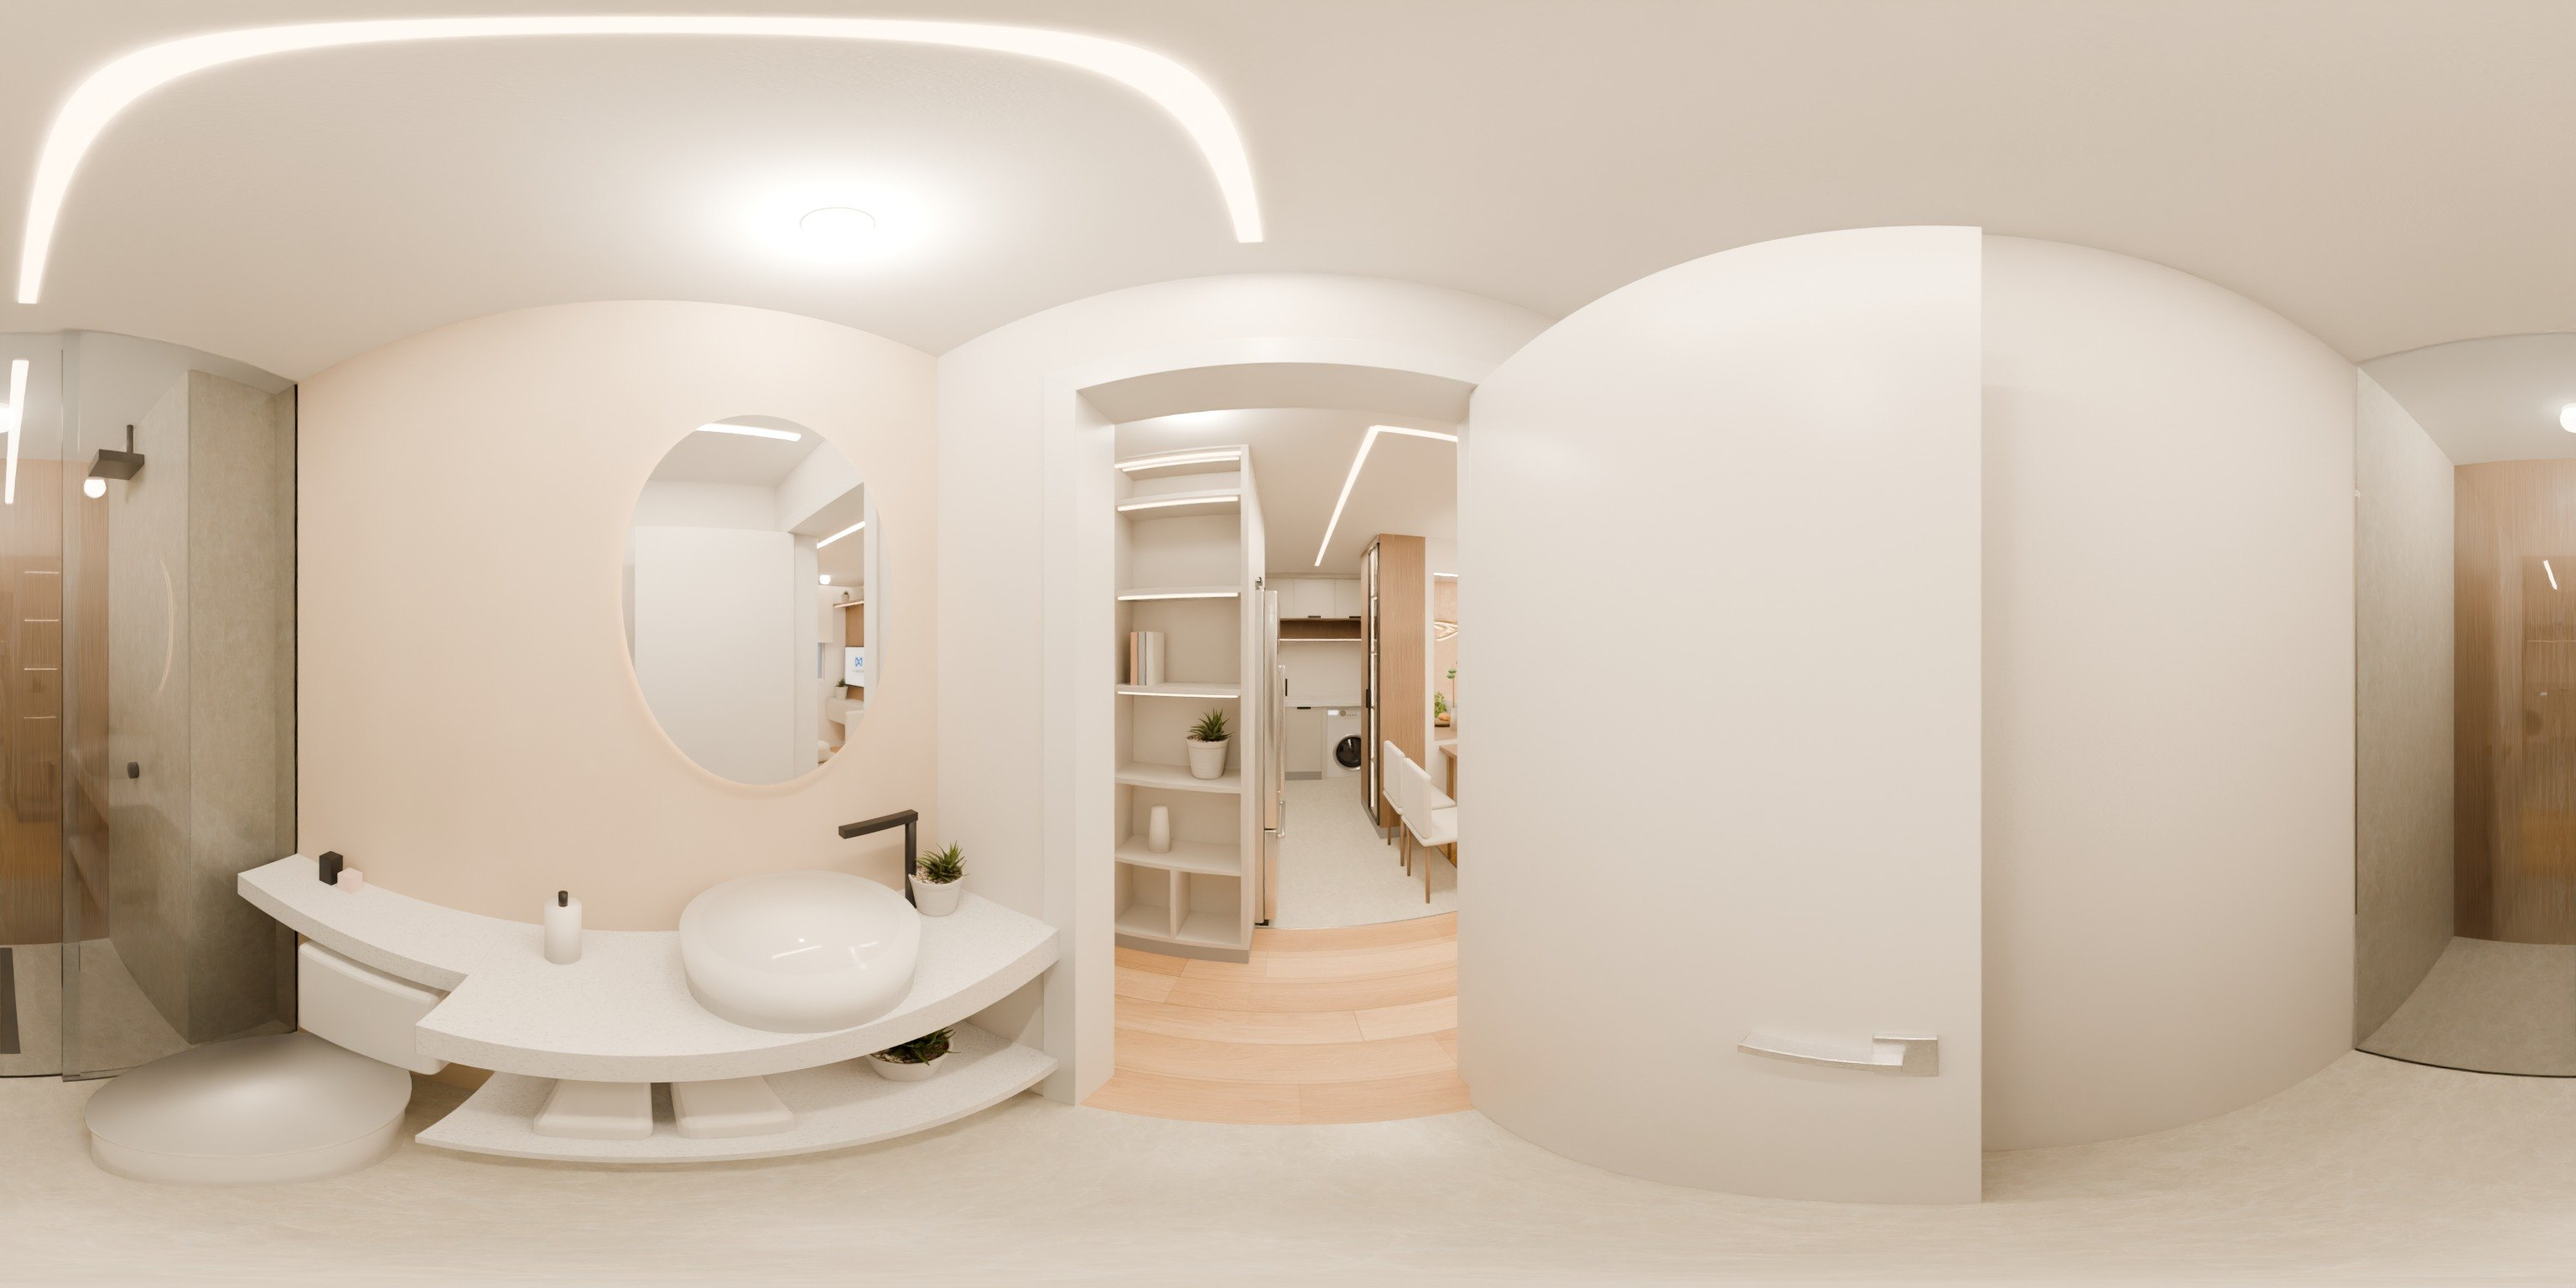
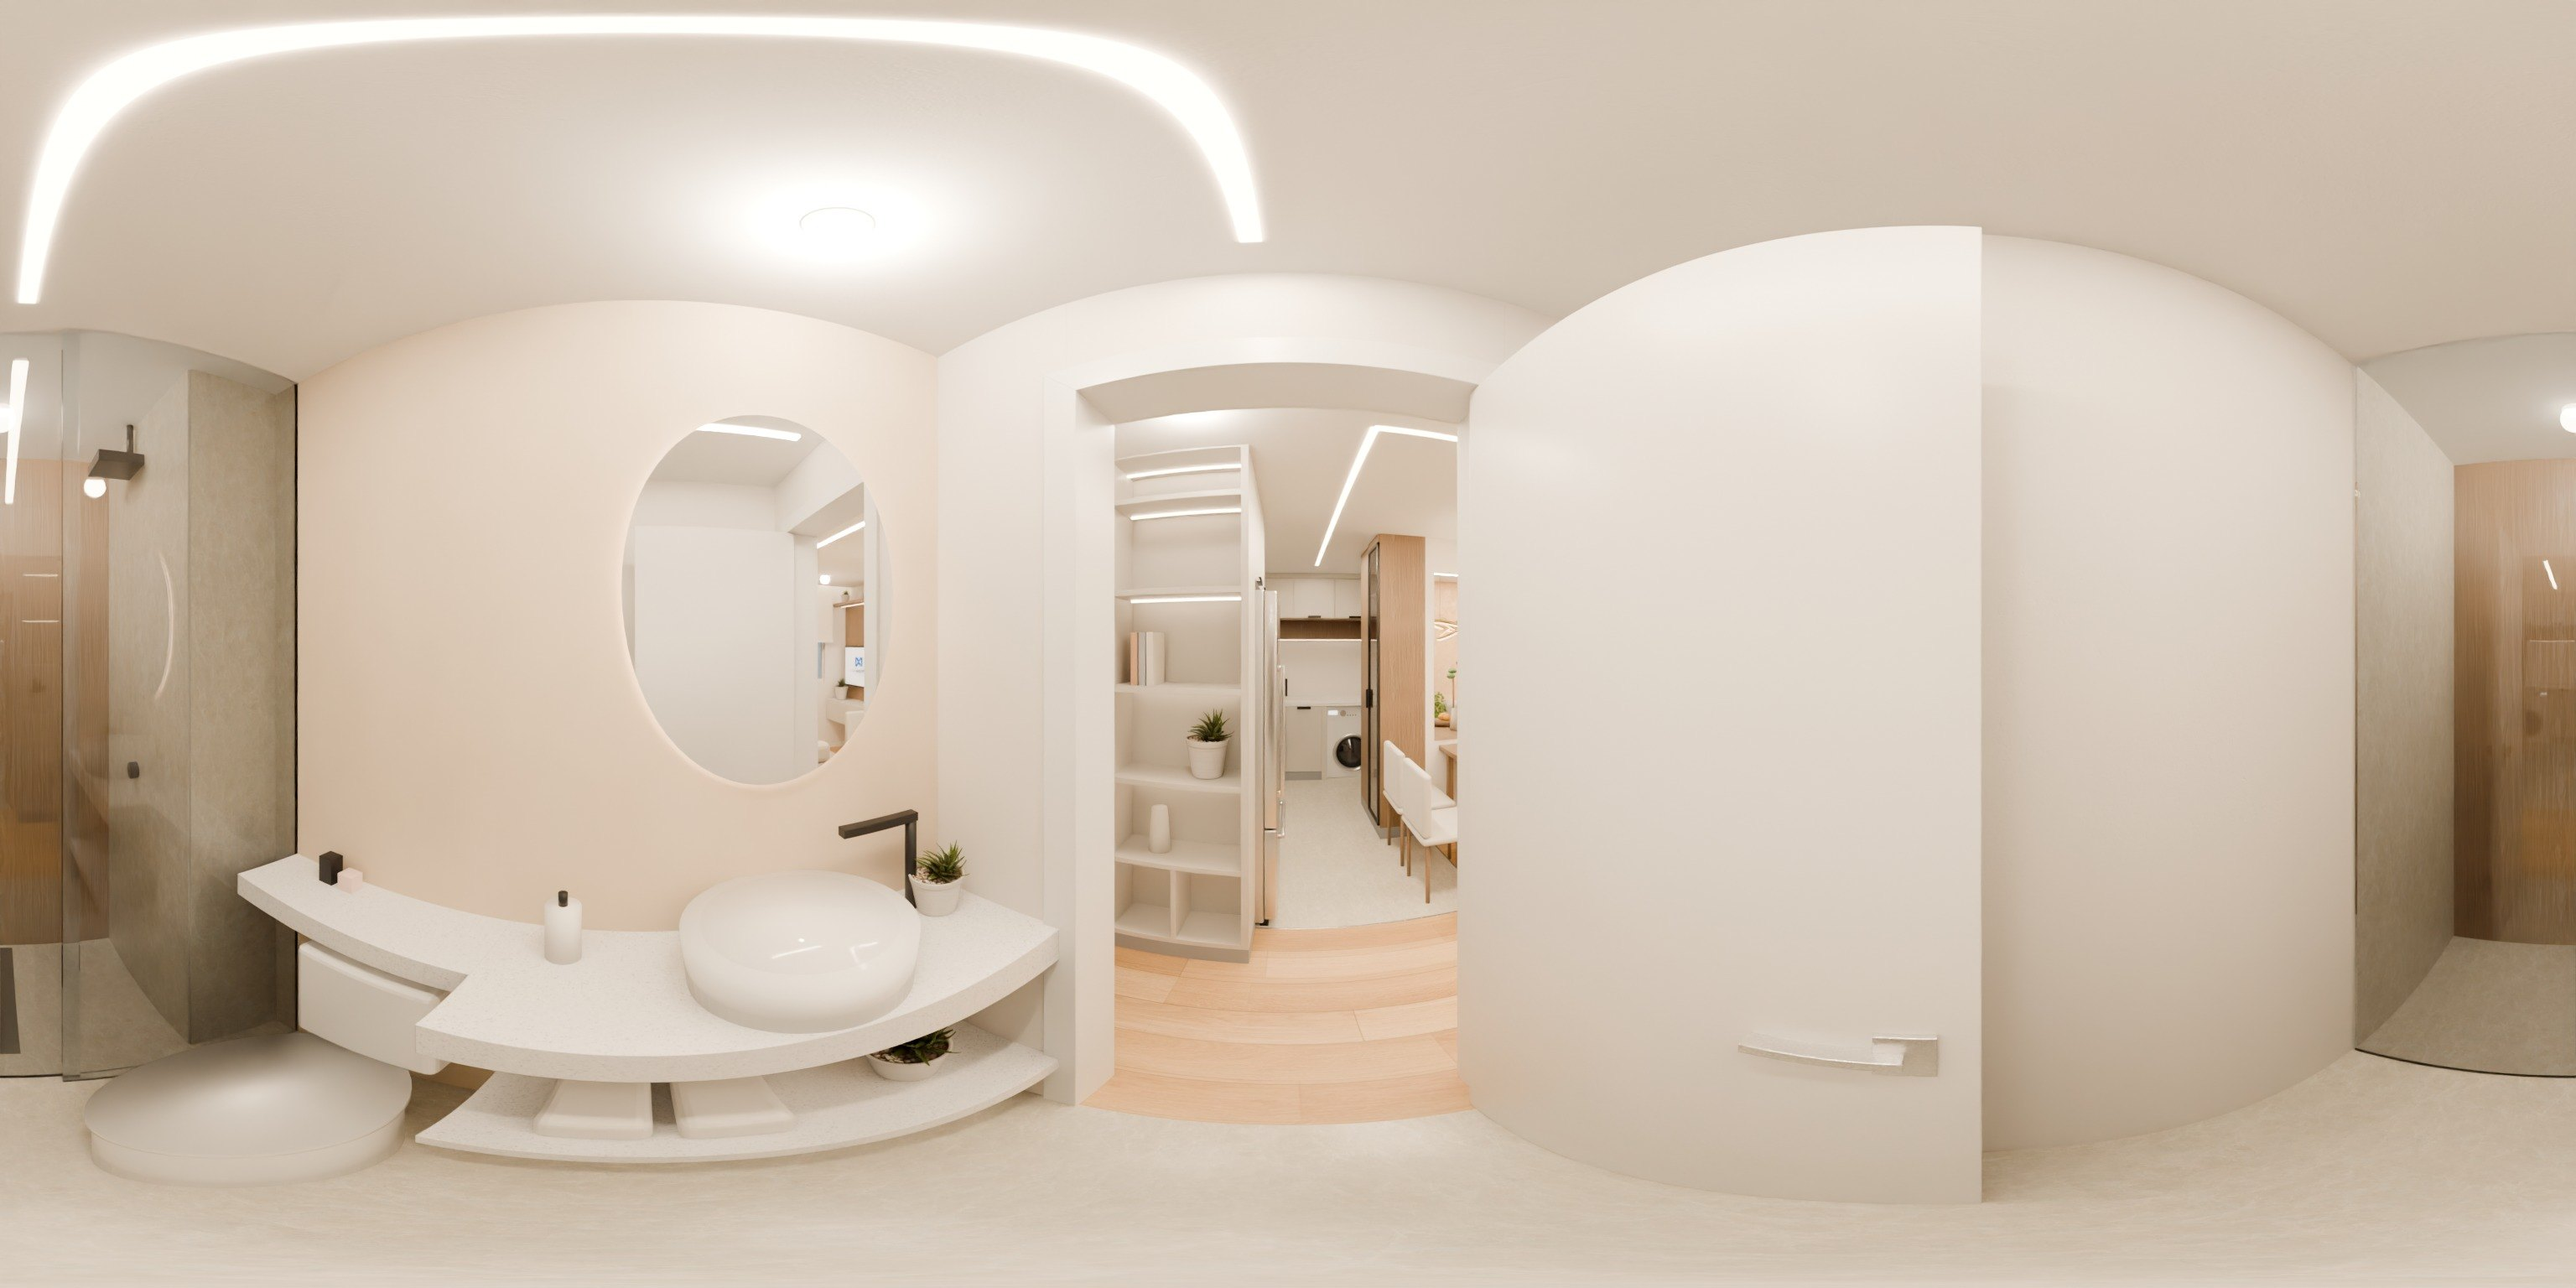
360: fotos com inducao, depurador, torneira gourmet, LEDs a 7 cm do fundo e roupa de cama nova
Claude-Session: https://claude.ai/code/session_01TCwC85nDjNHJiKaGTNL9QG

diff --git a/360/index.html b/360/index.html
@@ -37,40 +37,50 @@ nav button:focus-visible{outline:2px solid var(--brand);outline-offset:2px}
 .spot .lbl{background:rgba(15,21,32,.72);padding:4px 10px;border-radius:999px;white-space:nowrap}
 .spot:focus-visible{outline:none}.spot:focus-visible .lbl{outline:2px solid #fff}
 @media (prefers-reduced-motion:reduce){.spot .arrow{transition:none}}
+.sw{position:absolute;right:12px;top:12px;z-index:3;display:flex;align-items:center;gap:10px;background:rgba(15,21,32,.72);color:#fff;border:0;border-radius:999px;padding:7px 14px 7px 8px;font:700 .85rem var(--sans);cursor:pointer}
+.sw .knob{width:42px;height:24px;border-radius:999px;background:#f2c94c;position:relative;transition:background .2s}
+.sw .knob::after{content:"";position:absolute;top:3px;left:21px;width:18px;height:18px;border-radius:50%;background:#fff;transition:left .2s}
+.sw[aria-pressed="true"] .knob{background:#4b5563}.sw[aria-pressed="true"] .knob::after{left:3px}
+.sw:focus-visible{outline:2px solid #fff;outline-offset:2px}
+@media (prefers-reduced-motion:reduce){.sw .knob,.sw .knob::after{transition:none}}
 </style>
 </head>
 <body>
 <header><div class="id"><img class="logo" src="../img/ecf70b03e1.png" alt="Móveis X Sob Medida"><h1>Apartamento Phelipe <b>360°</b></h1></div><a class="back" href="../">← Voltar ao projeto</a></header>
-<header style="margin-top:-4px"><p>Arraste para olhar em volta. Clique nas setas para ir de um ambiente para o outro.</p></header>
-<div id="view"><div id="hint">Carregando…</div></div>
+<header style="margin-top:-4px"><p>Arraste para olhar em volta. Clique nas setas para ir de um ambiente para o outro. Use o interruptor para apagar as luzes do teto e ver só os LEDs.</p></header>
+<div id="view"><div id="hint">Carregando…</div><button class="sw" id="sw" hidden aria-pressed="false" aria-label="Apagar as luzes do teto"><span class="knob" aria-hidden="true"></span><span id="swl">Luzes do teto acesas</span></button></div>
 <nav id="rooms"></nav>
 <script src="https://cdnjs.cloudflare.com/ajax/libs/three.js/r128/three.min.js"></script>
 <script>
 // posição de cada foto 360 na planta (m) e portas para onde as setas apontam
 const ROOMS=[
- {name:"Sala",img:"sala.jpg?v=5",p:[3.55,-3.3],go:[["Cozinha",1,[4.1,-1.7]],["Dormitório 02",3,[4.74,-3.04]],["Dormitório 01",2,[2.42,-1.9]],["Banheiro",4,[2.6,-0.75]]]},
- {name:"Cozinha",img:"cozinha.jpg?v=5",p:[4.3,-1.05],go:[["Sala",0,[3.6,-3.0]],["Banheiro",4,[2.6,-0.75]]]},
- {name:"Dormitório 01",img:"dormitorio_01.jpg?v=5",p:[1.2,-2.4],go:[["Sala",0,[2.42,-1.9]]]},
- {name:"Dormitório 02",img:"dormitorio_02.jpg?v=5",p:[5.7,-3.1],go:[["Sala",0,[4.74,-3.04]]]},
- {name:"Banheiro",img:"banheiro.jpg?v=5",p:[1.75,-0.75],look:[0.45,-0.65],go:[["Cozinha",1,[2.6,-0.75]]]}];
+ {name:"Sala",img:"sala.jpg?v=6",p:[3.55,-3.3],go:[["Cozinha",1,[4.1,-1.7]],["Dormitório 02",3,[4.74,-3.04]],["Dormitório 01",2,[2.42,-1.9]],["Banheiro",4,[2.6,-0.75]]]},
+ {name:"Cozinha",img:"cozinha.jpg?v=6",p:[4.3,-1.05],go:[["Sala",0,[3.6,-3.0]],["Banheiro",4,[2.6,-0.75]]]},
+ {name:"Dormitório 01",img:"dormitorio_01.jpg?v=6",p:[1.2,-2.4],go:[["Sala",0,[2.42,-1.9]]]},
+ {name:"Dormitório 02",img:"dormitorio_02.jpg?v=6",p:[5.7,-3.1],go:[["Sala",0,[4.74,-3.04]]]},
+ {name:"Banheiro",img:"banheiro.jpg?v=6",p:[1.75,-0.75],look:[0.45,-0.65],go:[["Cozinha",1,[2.6,-0.75]]]}];
 const view=document.getElementById('view'),hint=document.getElementById('hint'),nav=document.getElementById('rooms');
 const renderer=new THREE.WebGLRenderer({antialias:true});renderer.setPixelRatio(Math.min(devicePixelRatio,2));
 view.prepend(renderer.domElement);renderer.outputEncoding=THREE.sRGBEncoding;
 const scene=new THREE.Scene(),cam=new THREE.PerspectiveCamera(80,1,.1,100);
 const geo=new THREE.SphereGeometry(10,64,40);geo.scale(-1,1,1);
 const mat=new THREE.MeshBasicMaterial();scene.add(new THREE.Mesh(geo,mat));
-const loader=new THREE.TextureLoader();let lon=180,lat=0,cur=0,spots=[];
+const loader=new THREE.TextureLoader();let lon=180,lat=0,cur=0,spots=[],night=false;
+const src=r=>night?r.img.replace('.jpg','_noite.jpg'):r.img;
 // direção na planta -> ponto na esfera (centro da foto = +X da planta, direita = -Y)
 function dirTo(from,to){const dx=to[0]-from[0],dy=to[1]-from[1],dist=Math.hypot(dx,dy);
  const u=.5+Math.atan2(-dy,dx)/(2*Math.PI),e=Math.max(-0.6,Math.atan2(0.7-1.55,dist)),th=Math.PI/2-e;
  return new THREE.Vector3(Math.cos(2*Math.PI*u)*Math.sin(th),Math.cos(th),Math.sin(2*Math.PI*u)*Math.sin(th)).multiplyScalar(5)}
-function load(i){cur=i;[...nav.children].forEach((b,j)=>b.setAttribute('aria-pressed',j===i));hint.textContent='Carregando…';
- spots.forEach(s=>s.el.remove());spots=[];
- loader.load(ROOMS[i].img,t=>{if(i!==cur){t.dispose();return}t.encoding=THREE.sRGBEncoding;if(mat.map)mat.map.dispose();mat.map=t;mat.needsUpdate=true;
+function load(i,keep){cur=i;[...nav.children].forEach((b,j)=>b.setAttribute('aria-pressed',j===i));hint.textContent='Carregando…';
+ if(!keep){spots.forEach(s=>s.el.remove());spots=[]}
+ const want=src(ROOMS[i]);loader.load(want,t=>{if(i!==cur||want!==src(ROOMS[i])){t.dispose();return}t.encoding=THREE.sRGBEncoding;if(mat.map)mat.map.dispose();mat.map=t;mat.needsUpdate=true;
+  if(keep){hint.textContent=ROOMS[i].name+(night?' · luzes do teto apagadas':'');draw();return}
   const r=ROOMS[i];spots=r.go.map(([label,to,door])=>{const el=document.createElement('button');el.className='spot';
    el.innerHTML='<span class="arrow" aria-hidden="true"></span><span class="lbl">'+label+'</span>';el.setAttribute('aria-label','Ir para '+label);
    el.onclick=()=>load(to);view.appendChild(el);return {el,v:dirTo(r.p,door)}});
-  const f=spots[0]?spots[0].v:null;lon=r.look?360*(.5+Math.atan2(-(r.look[1]-r.p[1]),r.look[0]-r.p[0])/(2*Math.PI)):180;lat=0;hint.textContent=r.name;draw()});}
+  const f=spots[0]?spots[0].v:null;lon=r.look?360*(.5+Math.atan2(-(r.look[1]-r.p[1]),r.look[0]-r.p[0])/(2*Math.PI)):180;lat=0;hint.textContent=r.name+(night?' · luzes do teto apagadas':'');draw()});}
+const sw=document.getElementById('sw');
+sw.onclick=()=>{night=!night;sw.setAttribute('aria-pressed',night);sw.setAttribute('aria-label',night?'Acender as luzes do teto':'Apagar as luzes do teto');document.getElementById('swl').textContent=night?'Só LEDs dos móveis':'Luzes do teto acesas';load(cur,true)};
 ROOMS.forEach((r,i)=>{const b=document.createElement('button');b.id='room'+i;b.textContent=r.name;b.onclick=()=>load(i);nav.appendChild(b)});
 function size(){const w=view.clientWidth,h=view.clientHeight;renderer.setSize(w,h,false);cam.aspect=w/h;cam.updateProjectionMatrix();draw()}
 const fwd=new THREE.Vector3();
@@ -80,7 +90,7 @@ function draw(){lat=Math.max(-85,Math.min(85,lat));const p=THREE.MathUtils.degTo
  spots.forEach(s=>{if(s.v.clone().normalize().dot(fwd)<0.15){s.el.hidden=true;return}
   const q=s.v.clone().project(cam);s.el.hidden=false;s.el.style.left=((q.x+1)/2*w)+'px';s.el.style.top=((1-q.y)/2*h)+'px'})}
 const pts=new Map();let pinch=0;
-view.addEventListener('pointerdown',e=>{if(e.target.closest('.spot'))return;view.setPointerCapture(e.pointerId);pts.set(e.pointerId,[e.clientX,e.clientY])});
+view.addEventListener('pointerdown',e=>{if(e.target.closest('.spot,.sw'))return;view.setPointerCapture(e.pointerId);pts.set(e.pointerId,[e.clientX,e.clientY])});
 view.addEventListener('pointermove',e=>{if(!pts.has(e.pointerId))return;const o=pts.get(e.pointerId);pts.set(e.pointerId,[e.clientX,e.clientY]);
  if(pts.size===1){const k=cam.fov/view.clientHeight;lon-=(e.clientX-o[0])*k;lat+=(e.clientY-o[1])*k;draw()}
  else if(pts.size===2){const [a,b]=[...pts.values()],d=Math.hypot(a[0]-b[0],a[1]-b[1]);if(pinch)zoom((pinch-d)*.15);pinch=d}});

diff --git a/index.html b/index.html
@@ -398,7 +398,7 @@ html.m .v360 small{font-size:12px}
     <h1>Apartamento<br><em>Phelipe</em></h1>
     <div class="rule"></div>
     <p>NOW Residence · Carapicuíba · SP</p>
-    <a class="v360" href="360/?v=6"><i>360°</i><span>Entrar no apartamento<small>Visite cada ambiente por dentro</small></span></a>
+    <a class="v360" href="360/?v=7"><i>360°</i><span>Entrar no apartamento<small>Visite cada ambiente por dentro</small></span></a>
   </div>
   <div class="cv-meta"><div><b>Cliente</b>Phelipe</div><div><b>Projeto</b>Daniel · Móveis X</div><div><b>Data</b>Outubro 2026</div></div>
 </div></section><section class="page concept">
@@ -971,6 +971,6 @@ html.m .v360 small{font-size:12px}
 <path d="M240 210 C262 188 284 178 297 176" fill="none" stroke="#ffffff" stroke-width="0.6"/>
 </svg>
 <div class="c3-txt"><img src="img/ecf70b03e1.png" alt="Móveis X"><h2>Feito sob medida<br><em>para o seu jeito de viver.</em></h2><div class="rule"></div>
-<p>Projeto de marcenaria · Apartamento Phelipe · NOW Residence</p><a class="v360" href="360/?v=6"><i>360°</i><span>Ver o apartamento em 360°<small>Sala, cozinha, quartos e banheiro</small></span></a></div>
+<p>Projeto de marcenaria · Apartamento Phelipe · NOW Residence</p><a class="v360" href="360/?v=7"><i>360°</i><span>Ver o apartamento em 360°<small>Sala, cozinha, quartos e banheiro</small></span></a></div>
 <div class="c3-script">Do projeto<br>à realidade</div></section>
 </body></html>
